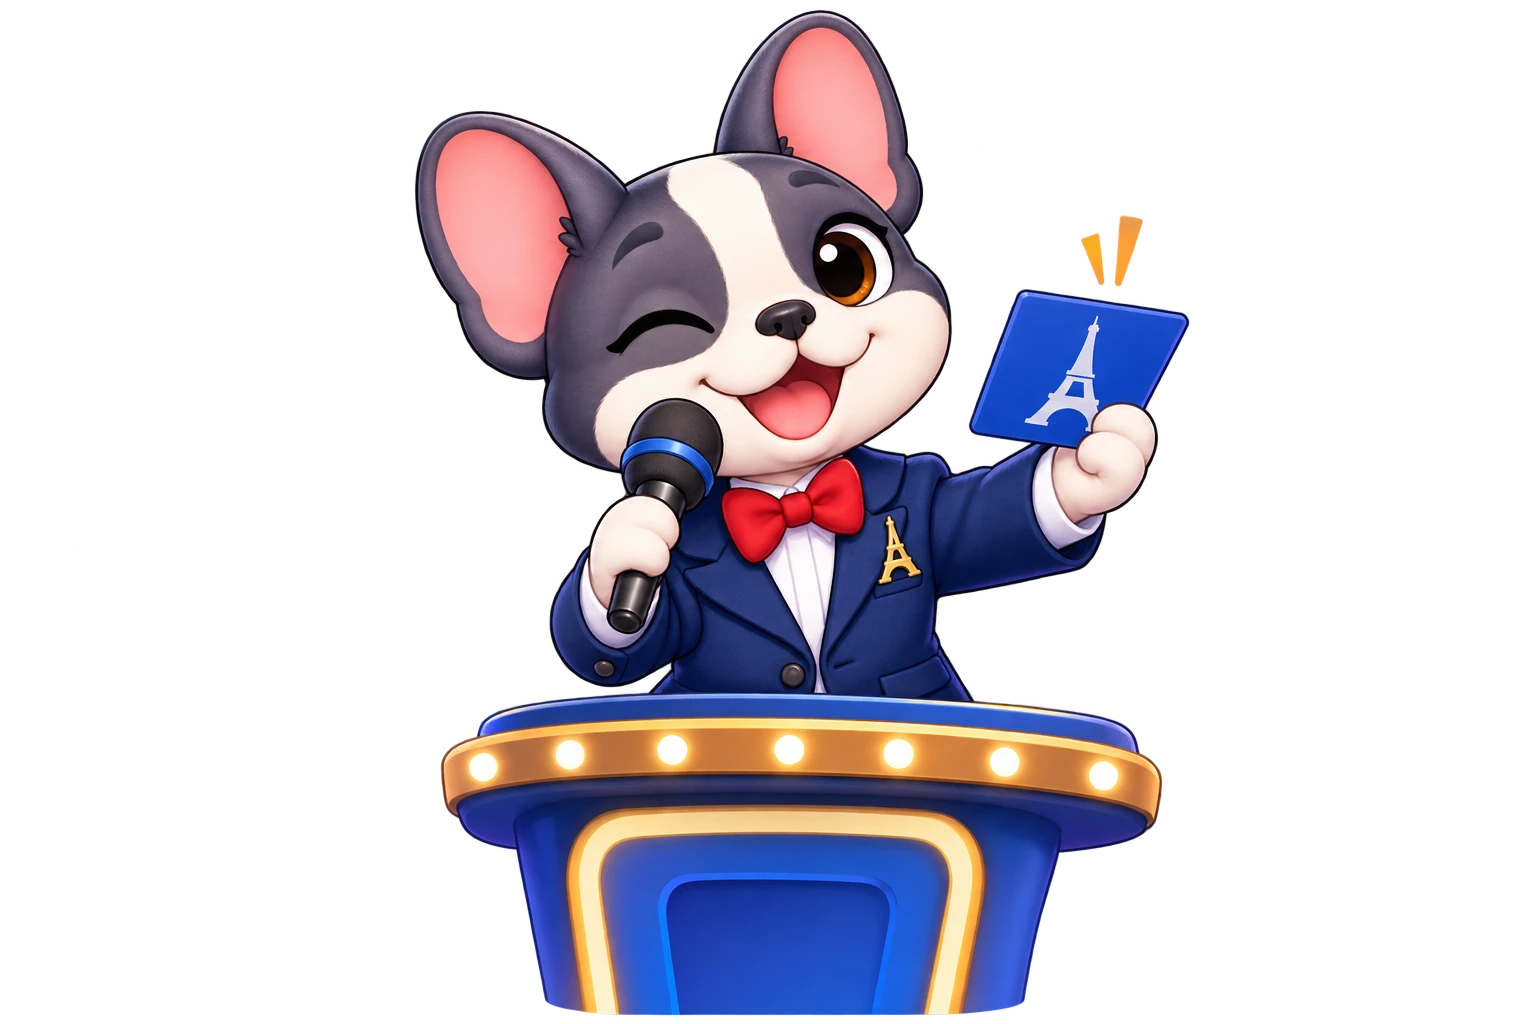
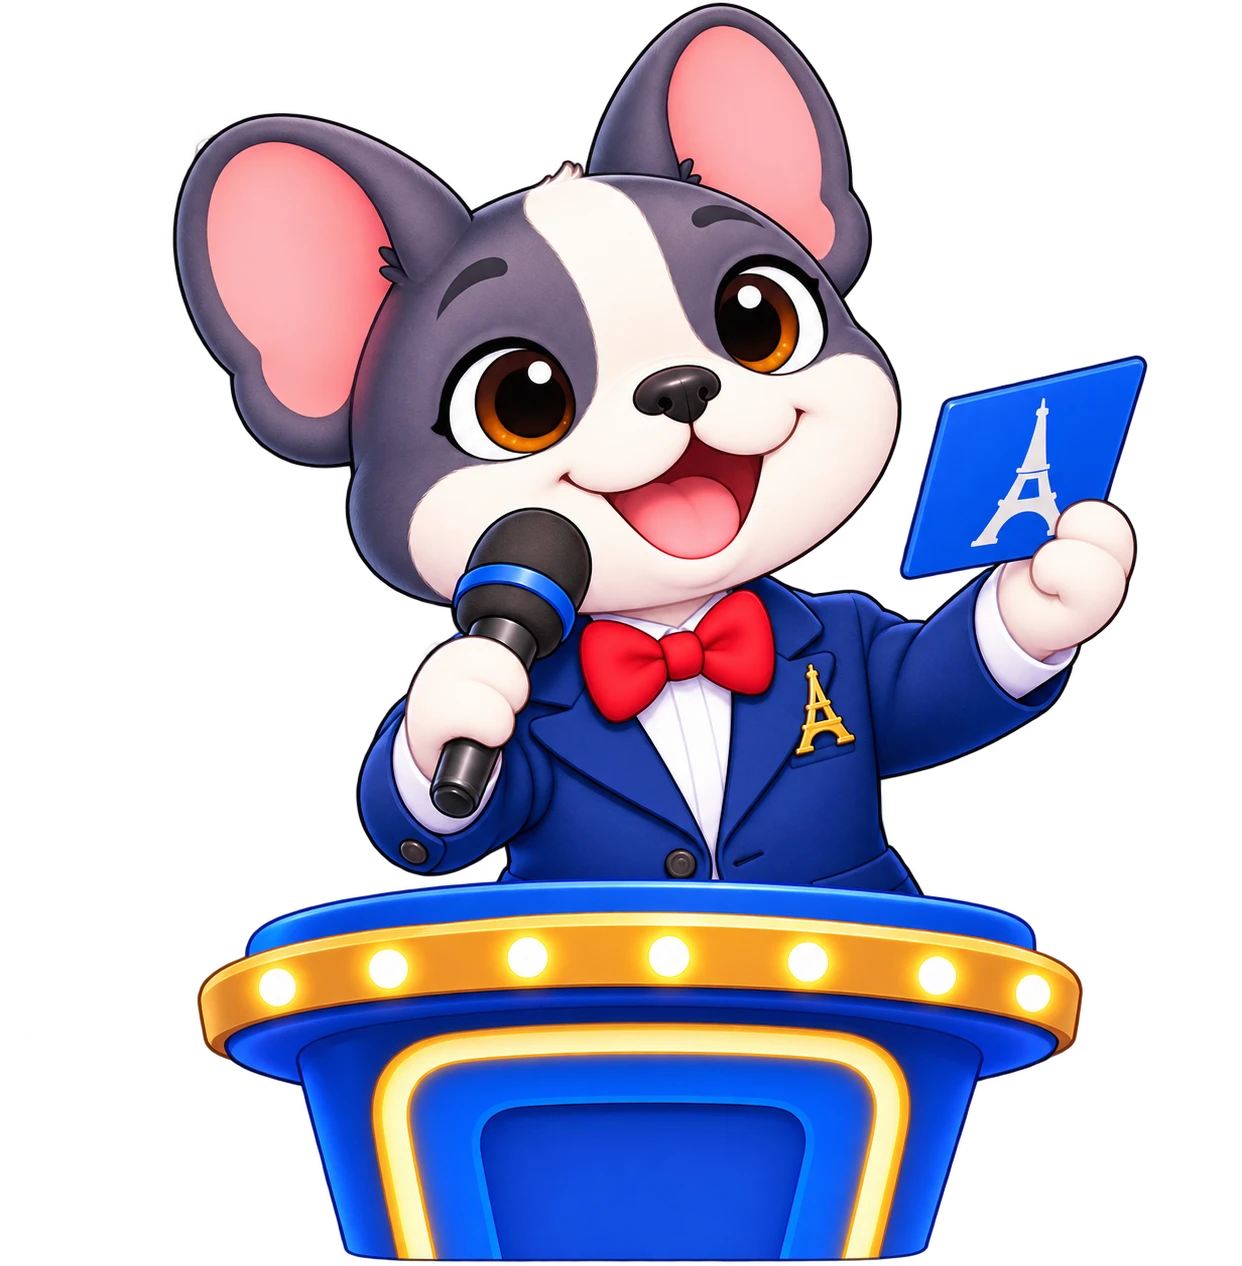
Sảnh trò chơi: thay ảnh Léon MC, căn Đố vui và Một năm ở Paris theo thẻ Thám tử

diff --git a/src/screens/student/TroChoiNhanh.jsx b/src/screens/student/TroChoiNhanh.jsx
@@ -71,10 +71,10 @@ const TRO_CHOI = () => [
   { ma: "tham_tu", nhom: "dv", Icon: Search, nen: "from-slate-600 to-indigo-700", leon: { src: "/leon/tham-tu-lon.webp", lop: "mcf-leon-ro top-[2%] -right-[14%] h-[105%] max-w-none", chu: "max-w-[60%]" },
     ten: tr("Thám tử Léon", "Détective Léon", "Detective Léon"),
     mo: tr("Làm trợ lý cho Thanh tra Léon: 9 vụ án, đọc manh mối tiếng Pháp và lần ra kẻ bí ẩn P.G.", "Assistez l'inspecteur Léon : 9 affaires, des indices en français et le mystérieux P.G.", "Assist Inspector Léon: 9 cases, French clues and the mysterious P.G.") },
-  { ma: "do_vui", nhom: "dv", Icon: Landmark, nen: "from-blue-600 to-red-500", leon: { src: "/leon/mc-lon.webp", lop: "mcf-leon-ro top-2 -right-[120px] h-[240px] max-w-none", chu: "max-w-[60%]", kieu: { "--mcf-mat-a": "68%", "--mcf-mat-b": "84%" } },
+  { ma: "do_vui", nhom: "dv", Icon: Landmark, nen: "from-blue-600 to-red-500", leon: { src: "/leon/mc-lon.webp", lop: "mcf-leon-ro top-[2%] -right-[17%] h-[105%] max-w-none", chu: "max-w-[60%]" },
     ten: tr("Đố vui nước Pháp", "Quiz France", "France quiz"),
     mo: tr("Gameshow vòng quanh nước Pháp do MC Léon dẫn: tự chọn từng địa danh trên bản đồ, đua cùng bà Minette, về Paris chung kết.", "Un jeu télé à travers la France : choisissez vos étapes sur la carte, puis finale à Paris.", "A TV quiz around France: pick your stops on the map, then the final in Paris.") },
-  { ma: "phieu_luu", nhom: "dv", Icon: MapPinned, nen: "from-amber-500 to-orange-600", leon: { src: "/leon/du-hoc-lon.webp", lop: "mcf-leon-ro top-2 -right-[110px] h-[240px] max-w-none", chu: "max-w-[60%]", kieu: { "--mcf-mat-a": "68%", "--mcf-mat-b": "84%" } },
+  { ma: "phieu_luu", nhom: "dv", Icon: MapPinned, nen: "from-amber-500 to-orange-600", leon: { src: "/leon/du-hoc-lon.webp", lop: "mcf-leon-ro top-[2%] -right-[37%] h-[105%] max-w-none", chu: "max-w-[60%]", kieu: { "--mcf-mat-a": "57%", "--mcf-mat-b": "77%" } },
     ten: tr("Một năm ở Paris", "Une année à Paris", "A year in Paris"),
     mo: tr("Sống 12 tháng du học cùng Léon: mỗi tuần tự chọn việc, giữ tiền, sức và tinh thần, đối đáp đúng sắc thái.", "12 mois de vie étudiante avec Léon : choisissez chaque semaine, gérez argent, énergie et moral.", "12 months of student life with Léon: choose each week, manage money, energy and mood.") },
 ];
